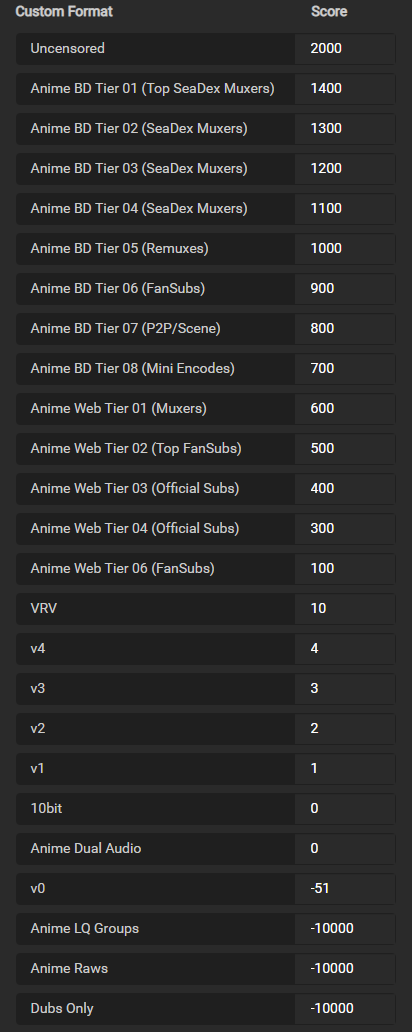
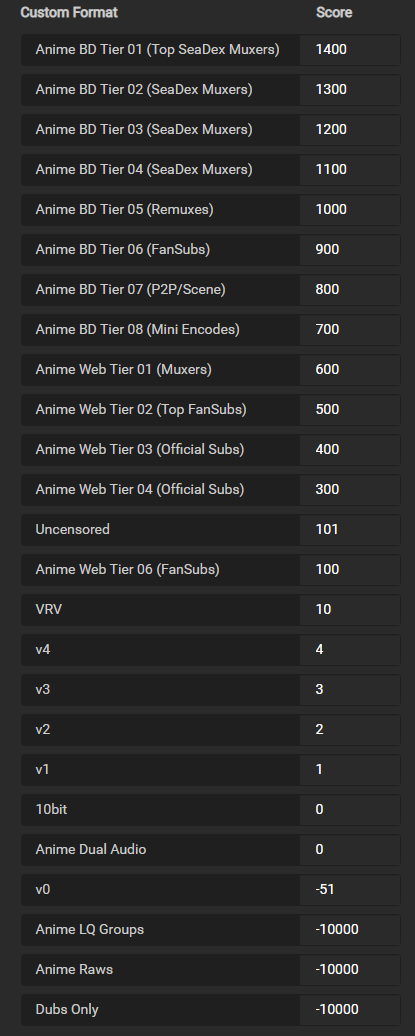
Feat(sonarr-anime) guide updates

diff --git a/docs/Sonarr/sonarr-setup-custom-formats-anime.md b/docs/Sonarr/sonarr-setup-custom-formats-anime.md
@@ -147,13 +147,11 @@ Below is an example of the scoring set to prefer `Dual Audio` over any tier.
 
 If you prefer `Uncensored` releases you have a few options depending on your preference.
 
-If you want to prefer `Uncensored` within the same tier give the `CF` a score of `10`, if you want it to be preferred a tier above give the `CF` a score of `101`, and if you want to prefer it over any tiers give the `CF` a score of `2000`.
-
-If you must have `Uncensored` releases set the `Minimum Custom Format Score` to 2000 in the `Remux-1080p - Anime` profile that you setup earlier.
+If you want to prefer `Uncensored` within the same tier give the `CF` a score of `10`, if you want it to be preferred a tier above give the `CF` a score of `101`.
 
 Using this scoring you will still benefit from the tiers if a better release group does an `Uncensored` release.
 
-Below is an example of the scoring set to prefer `Uncensored` over any tier.
+Below is an example of the scoring set to prefer `Uncensored` a tier above.
 
 ![!cfa-uncensored-scoring](images/cfa-uncensored-scoring.png)
 
